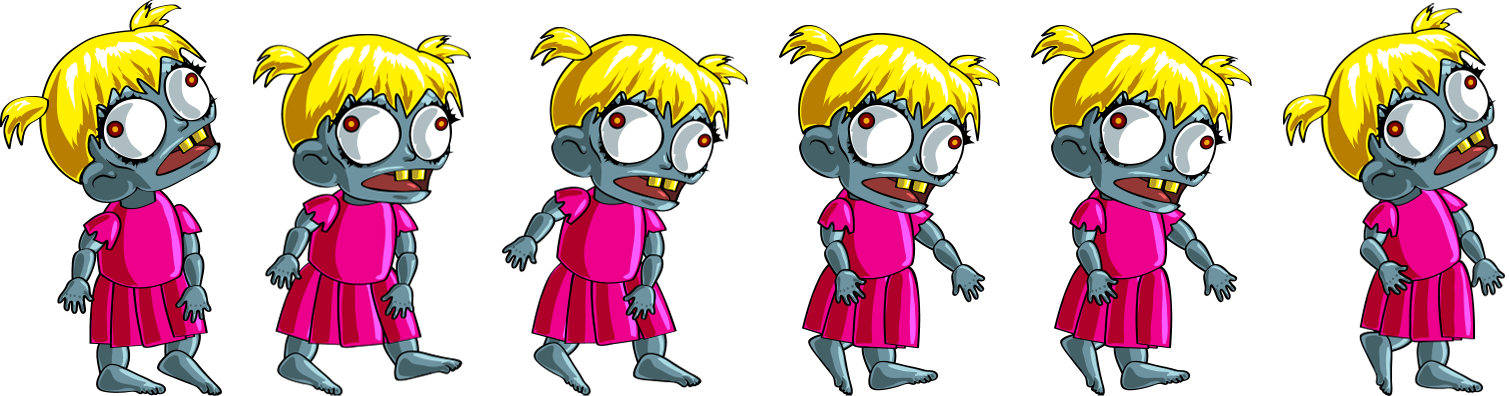
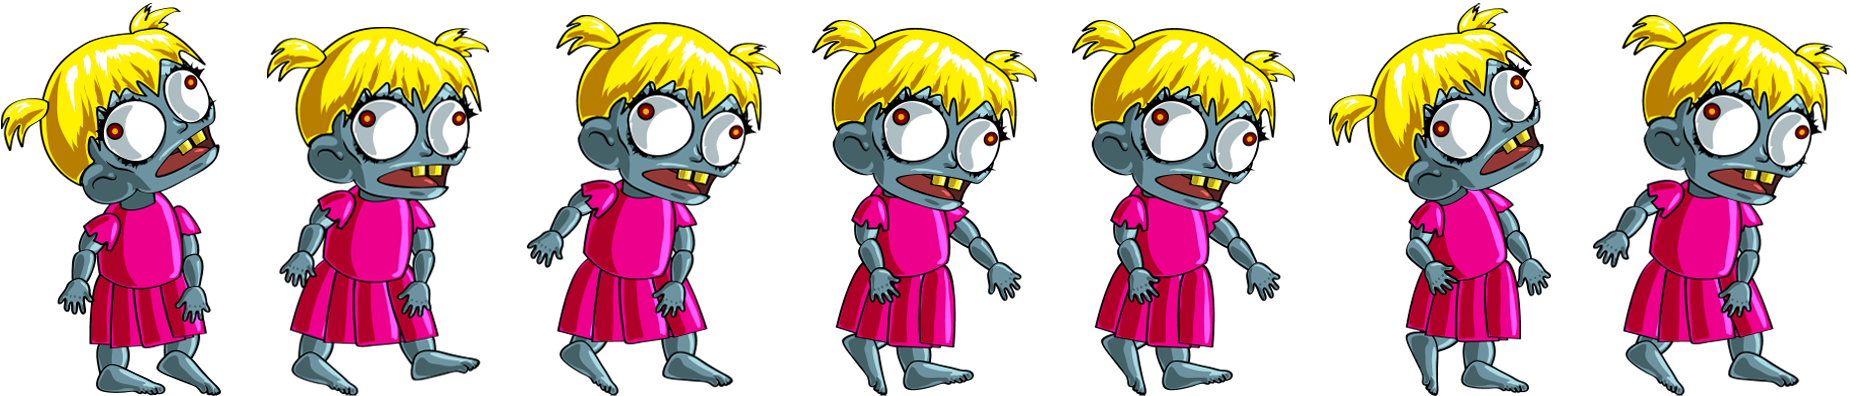
fixed girl walk animation

diff --git a/assets/js/canvas.js b/assets/js/canvas.js
@@ -5,17 +5,17 @@ let canvasHeight  = 400;
 const girlSprite = new Image();
 girlSprite.src = "assets/img/girl_walk.png";
 
-const spriteWidth = 251.5;//251.5
+const spriteWidth = 259.17;//251.5
 const spriteHeight = 396;
 
 let frameX = 0;
 let frameY = 0;
 let gameFrame = 0;
-const staggerFrames = 5
+const staggerFrames = 15
 
 function animate(){
     ctx.clearRect(0,0,canvasWidth, canvasHeight);
-    let position = Math.floor(gameFrame/staggerFrames) % 5;
+    let position = Math.floor(gameFrame/staggerFrames) % 7;
     frameX = spriteWidth * position;
     ctx.drawImage(girlSprite, frameX, frameY * spriteHeight, spriteWidth, spriteHeight, 100, 0, spriteWidth/4, spriteHeight/4);
     gameFrame++;

diff --git a/assets/css/style.css b/assets/css/style.css
@@ -212,6 +212,7 @@ main {
     height: inherit;
     background-color: #272727;
     border-radius: 1.5rem;
+    transition: width 3s;
 }
 
 #progress-image {
@@ -258,9 +259,9 @@ main {
 .play-button {
 	 width: 214px;
 	 text-align: center;
-    position: fixed;
-    top:15vh;
-left: 1%;
+     position: absolute;
+     top:1rem;
+     left: -1rem;
 }
  .circle {
 	 stroke: #f8aa28;
